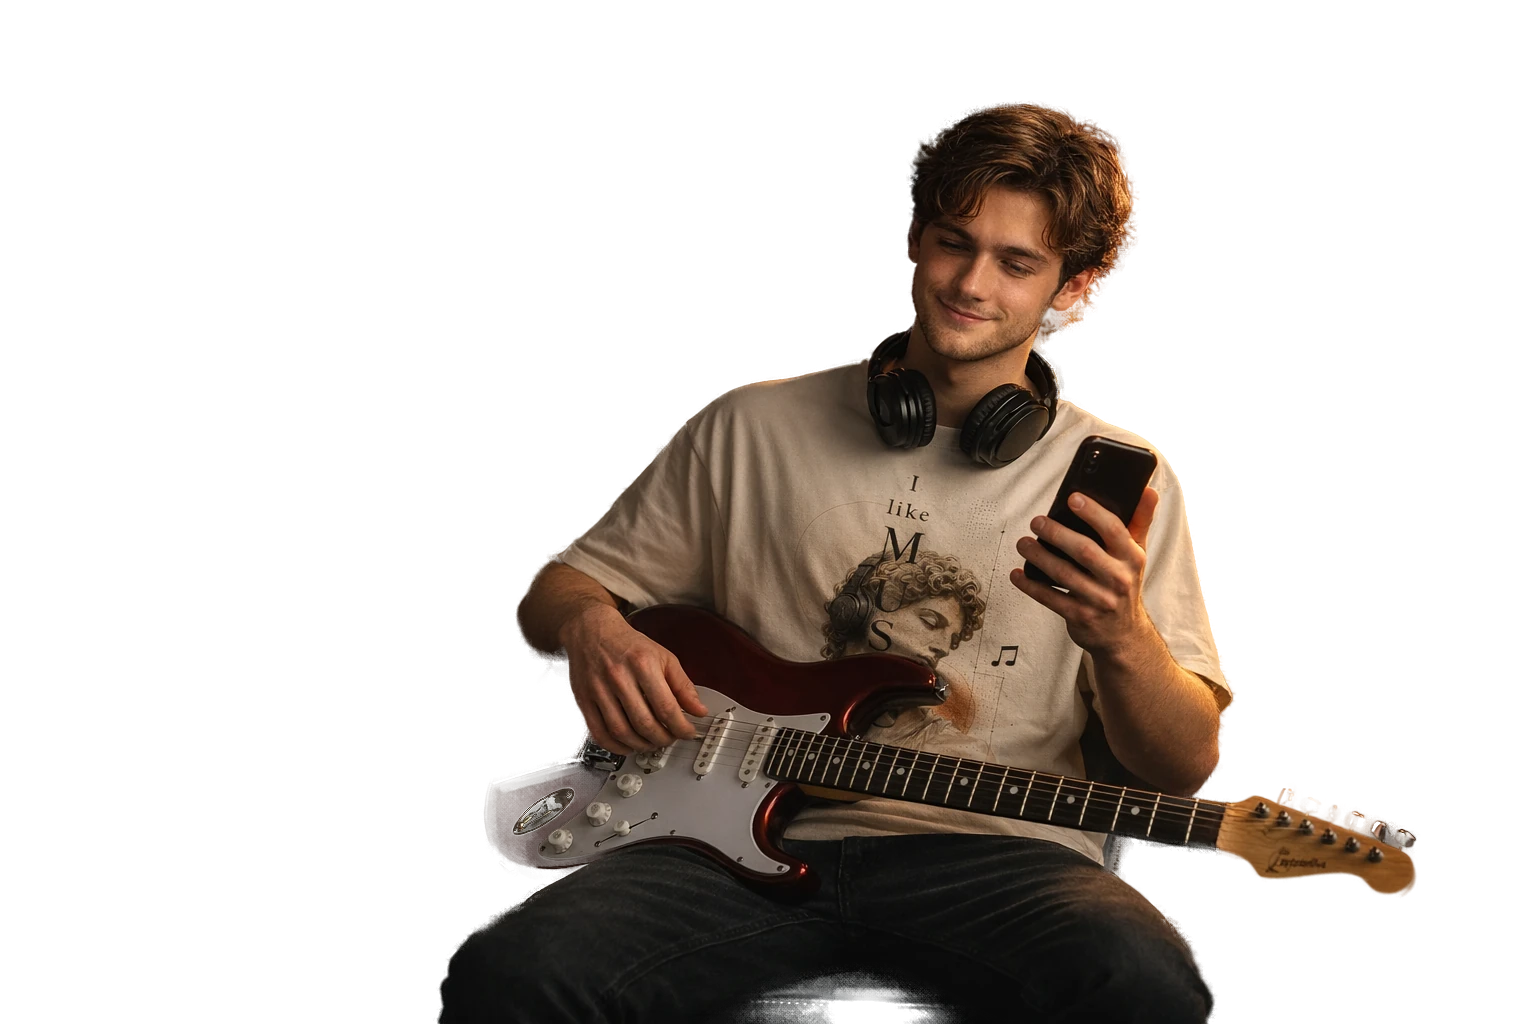
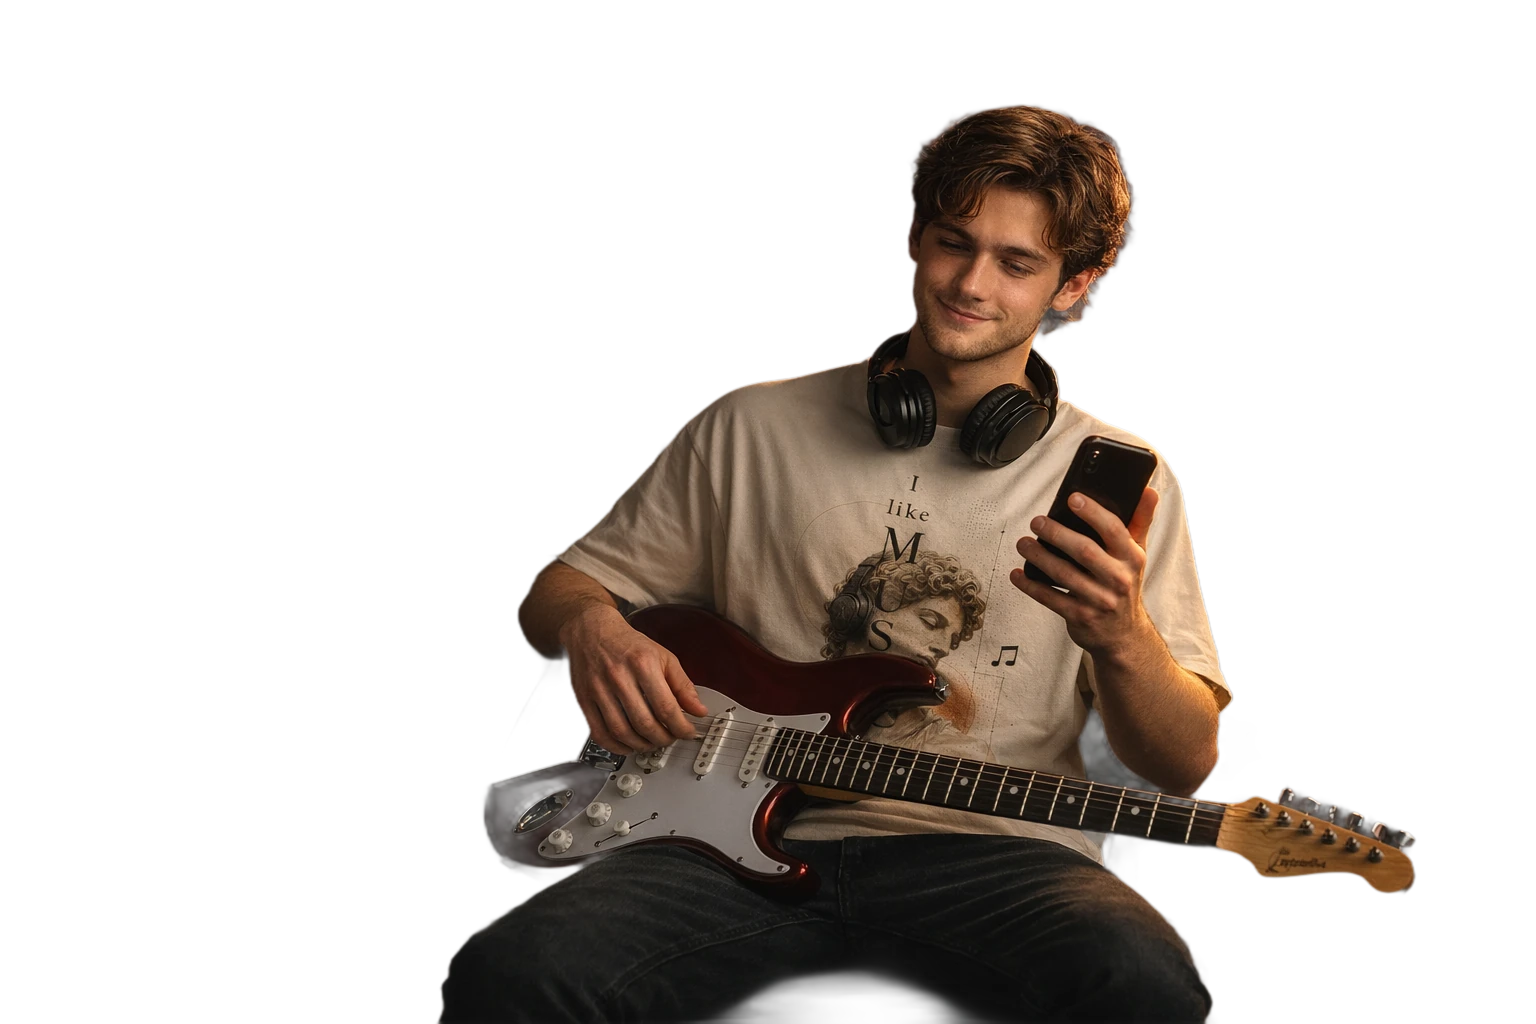
Seamless parallax and instant chat on phone tap
- Background is the hero plate itself, with the real sign composited behind the man
- Cutout moves as one body (flattened depth) with a tighter, un-matted edge
- Sign shadow no longer wraps onto the wall above the logo
- Tapping the phone opens the conversation in place with a gentle 12% lean

diff --git a/src/components/sections/Session/PhotoStudio.tsx b/src/components/sections/Session/PhotoStudio.tsx
@@ -71,7 +71,7 @@ const FRAG = /* glsl */ `
   uniform sampler2D uMap, uDepth, uMaskRed, uMaskLamp;
   uniform float uHasAlpha, uHasMasks;
   uniform vec2 uParallax, uFocus, uChest, uPhone;
-  uniform float uZoom, uParallaxScale, uDepthZoom, uBreath;
+  uniform float uZoom, uParallaxScale, uDepthZoom, uBreath, uDepthFlat, uDepthMix;
   uniform vec3 uLights;      // red, lamp, ambient
   uniform float uAudio, uFlicker, uTime, uGrain, uVignette, uFade, uPhoneGlow;
   varying vec2 vUv;
@@ -81,7 +81,7 @@ const FRAG = /* glsl */ `
     vec2 uv = uFocus + (vUv - uFocus) / uZoom;
     // breathing: a tiny scale around the chest
     uv = uChest + (uv - uChest) / (1.0 + uBreath);
-    float d = texture2D(uDepth, uv).r;                     // 1 = near
+    float d = mix(uDepthFlat, texture2D(uDepth, uv).r, uDepthMix); // 1 = near
     // nearer pixels slide more with the pointer, and spread more as the camera pushes in
     vec2 off = uParallax * uParallaxScale * (d - 0.5)
              + (uv - uFocus) * (uZoom - 1.0) * uDepthZoom * (d - 0.5);
@@ -131,6 +131,8 @@ function makeUniforms(t: PlateTextures, focus: THREE.Vector2, hasAlpha: boolean)
     uZoom: { value: 1 },
     uParallaxScale: { value: 0.01 },
     uDepthZoom: { value: 0.2 },
+    uDepthFlat: { value: 0.5 },
+    uDepthMix: { value: 1 },
     uBreath: { value: 0 },
     uLights: { value: new THREE.Vector3() },
     uAudio: { value: 0 },
@@ -206,7 +208,7 @@ function Plate({ textures, focus, centerX = 0.5, hasAlpha = false, parallaxScale
 // ---------------------------------------------------------------------------
 function Studio() {
   const bg = useTexture(
-    { map: "/scene/clean.jpg", depth: "/scene/clean-depth.jpg", red: "/scene/mask-red.jpg", lamp: "/scene/mask-lamp.jpg" },
+    { map: "/scene/hero.jpg", depth: "/scene/hero-depth.jpg", red: "/scene/mask-red.jpg", lamp: "/scene/mask-lamp.jpg" },
     configure,
   ) as unknown as PlateTextures;
   const fg = useTexture({ map: "/scene/hero-cutout.webp", depth: "/scene/hero-depth.jpg" }, configure) as unknown as PlateTextures;
@@ -235,13 +237,16 @@ function Studio() {
         focus={heroFocus}
         centerX={HERO_CENTER_X}
         hasAlpha
-        parallaxScale={0.05}
+        parallaxScale={0.06}
         depthZoom={0.3}
         z={1}
         update={(u) => {
           u.uZoom.value = frame.heroZoom;
           u.uBreath.value = frame.breath;
           u.uPhoneGlow.value = 1 + session.phonePulse * 2.5;
+          // the man shifts as one body (his depth ≈ 0.78), with only a touch of internal relief
+          u.uDepthFlat.value = 0.78;
+          u.uDepthMix.value = 0.2;
         }}
       />
       <Strings />
@@ -255,7 +260,7 @@ function Studio() {
 const SEGMENTS = 40;
 /** Depth-map value of the guitar, so the strings slide with the layer they sit on */
 const STRING_DEPTH = 0.72;
-const STRING_PARALLAX = 0.05;
+const STRING_PARALLAX = 0.06;
 
 function Strings() {
   const { w, h, shift } = useCover(HERO_CENTER_X);
@@ -457,14 +462,13 @@ function Driver() {
     // Scroll pushes the camera towards the phone and stops there; the studio stays in frame.
     const push = easeInOut(smooth(p, 0, PUSH_END));
     frame.parallax.copy(smoothMouse.current).multiplyScalar(1 - push * 0.6);
-    frame.heroZoom = 1 + 0.7 * push;
+    frame.heroZoom = 1 + 0.7 * push + 0.12 * session.focus * (1 - push);
     frame.time = clock.elapsedTime;
     session.phonePulse *= Math.exp(-dt * 4);
     // the zoom pivots on the phone, so its screen position only drifts with the parallax
     const { w, h, shift } = coverFit(size.width, size.height);
-    const d = 0.75 - 0.5;
-    session.phoneScreen.x = size.width / 2 + shift + (HERO_PHONE[0] / IMG.w - 0.5) * w - frame.parallax.x * 0.05 * d * w;
-    session.phoneScreen.y = size.height / 2 + (HERO_PHONE[1] / IMG.h - 0.5) * h + frame.parallax.y * 0.05 * d * h;
+    session.phoneScreen.x = size.width / 2 + shift + (HERO_PHONE[0] / IMG.w - 0.5) * w - frame.parallax.x * 0.06 * (0.78 - 0.5) * w;
+    session.phoneScreen.y = size.height / 2 + (HERO_PHONE[1] / IMG.h - 0.5) * h + frame.parallax.y * 0.06 * (0.78 - 0.5) * h;
     frame.breath = Math.sin(clock.elapsedTime * 1.1) * 0.004;
     const a = session.audio.level;
     frame.flicker = session.lights.lamp > 0.9 ? 1 + Math.sin(t * 37) * Math.sin(t * 11) * (0.015 + a * 0.25) : 1;

diff --git a/src/components/sections/Session/Session.tsx b/src/components/sections/Session/Session.tsx
@@ -2,7 +2,6 @@
 
 import dynamic from "next/dynamic";
 import { useEffect, useRef, useState } from "react";
-import { useLenis } from "lenis/react";
 import { gsap, ScrollTrigger, useGSAP } from "@/lib/gsap";
 import { usePreloaderStore } from "@/store/preloader";
 import ChatOverlay from "./ChatOverlay";
@@ -20,7 +19,6 @@ export default function Session() {
   const scrollHint = useRef<HTMLDivElement>(null);
   const tapHint = useRef<HTMLDivElement>(null);
   const phoneHint = useRef<HTMLButtonElement>(null);
-  const lenis = useLenis();
   const done = usePreloaderStore((s) => s.done);
   const [muted, setMutedState] = useState(false);
 
@@ -90,15 +88,11 @@ export default function Session() {
     };
   }, [done]);
 
-  // Tapping the phone pushes the camera in and starts the conversation on arrival.
+  // Tapping the phone opens the conversation right here, with a gentle lean towards the phone.
   const tapPhone = () => {
     unlockAudio();
     requestAutoPlay();
-    const st = ScrollTrigger.getAll().find((t) => t.trigger === root.current);
-    if (!st) return;
-    const target = st.start + (st.end - st.start) * 0.62;
-    if (lenis) lenis.scrollTo(target, { duration: 1.6, easing: (t: number) => 1 - Math.pow(1 - t, 3) });
-    else window.scrollTo({ top: target, behavior: "smooth" });
+    gsap.to(session, { focus: 1, duration: 1.4, ease: "power3.out" });
   };
 
   const toggleSound = () => {

diff --git a/src/components/sections/Session/state.ts b/src/components/sections/Session/state.ts
@@ -19,8 +19,10 @@ export const session = {
   phonePulse: 0,
   /** 1 = show the TAP hint on the phone (at rest, before the push) */
   phoneHint: 1,
-  /** Set when the phone itself was tapped: scroll to the push and start the chat on arrival */
+  /** Set when the phone itself was tapped: open the conversation right away */
   autoPlay: false,
+  /** 0–1, a gentle zoom towards the phone while the conversation is open (tweened by GSAP) */
+  focus: 0,
   /** Render-loop counter (debug: confirms the canvas is actually drawing) */
   frames: 0,
 };
@@ -39,7 +41,7 @@ export function dismissPhoneHint() {
   session.phoneHint = 0;
 }
 
-/** The phone was tapped at rest: push in, then start the conversation on arrival. */
+/** The phone was tapped: hide its hint and open the conversation. */
 export function requestAutoPlay() {
   session.phoneHint = 0;
   session.autoPlay = true;
@@ -52,7 +54,7 @@ export const PLATE = { w: 1536, h: 1024 };
 /** Image x (0–1) kept in view when a narrow screen crops the plate */
 export const HERO_CENTER_X = 0.6;
 /** Wall sign on the hero/clean plate, in plate pixels: the "auvox" wordmark box */
-export const SIGN_WORDMARK = { x: 505, y: 115, w: 448, h: 104 };
+export const SIGN_WORDMARK = { x: 505, y: 113, w: 448, h: 105 };
 /** Phone screen centre on the hero plate, in plate pixels */
 export const HERO_PHONE = { x: 1080, y: 515 };
 

diff --git a/src/components/sections/Session/ChatOverlay.tsx b/src/components/sections/Session/ChatOverlay.tsx
@@ -43,7 +43,7 @@ export default function ChatOverlay() {
     const tick = () => {
       const p = session.progress;
       const arrived = smooth(p, 0.42, 0.6);
-      if (session.autoPlay && arrived >= 1 && stageRef.current === "idle") {
+      if (session.autoPlay && stageRef.current === "idle") {
         session.autoPlay = false;
         startRef.current();
       }

diff --git a/scripts/sign.py b/scripts/sign.py
@@ -28,7 +28,7 @@ FINAL = ROOT.parent / "AUVOX Generation Pack" / "output" / "final"
 SVG = ROOT / "public" / "svg" / "auvox-primary-logo.svg"
 
 # Where the generated sign sits on the plate (its "auvox" box), and where ours goes.
-OLD_REGION = (470, 95, 990, 275)  # x0, y0, x1, y1 — search area for the old cream letters
+OLD_REGION = (440, 50, 1010, 285)  # x0, y0, x1, y1 — search area for the old cream letters
 TARGET_X, TARGET_W = 505, 448     # keep the old wordmark's left edge and width
 TARGET_CY = 165                   # vertical centre of the old wordmark
 CREAM = np.array([241, 237, 233], dtype=np.float32)
@@ -96,15 +96,25 @@ def render_logo(width_px: int) -> Image.Image:
     return Image.fromarray(rgba[..., 3], "L")  # alpha = logo coverage
 
 
-def main() -> None:
-    src = FINAL / "02-B-clean-plate.png"
-    backup = FINAL / "02-B-clean-plate-original.png"
+def shift(img: np.ndarray, dy: int, dx: int) -> np.ndarray:
+    """Shift without wrap-around (np.roll would drag the bottom shadow onto the top)."""
+    out = np.zeros_like(img)
+    h, w = img.shape[:2]
+    out[max(dy, 0) : h + min(dy, 0), max(dx, 0) : w + min(dx, 0)] = img[max(-dy, 0) : h - max(dy, 0), max(-dx, 0) : w - max(dx, 0)]
+    return out
+
+
+def resign(src: Path, protect: np.ndarray | None = None) -> tuple[int, int, int, int]:
+    """Replace the generated sign on `src` in place. `protect` (H×W, 0–1) keeps foreground pixels untouched."""
+    backup = src.with_name(src.stem + "-original.png")
     if not backup.exists():
         backup.write_bytes(src.read_bytes())
     plate = np.asarray(Image.open(backup).convert("RGB")).astype(np.float32)
     H, W, _ = plate.shape
+    keep = np.zeros((H, W), np.float32) if protect is None else np.clip(protect, 0, 1)
+    keep = cv2.dilate(keep, np.ones((5, 5), np.uint8))
 
-    # 1. old sign mask → inpaint
+    # 1. old sign mask (cream letters, not on the foreground) → inpaint
     lum = plate.mean(axis=2)
     sat = plate.max(axis=2) - plate.min(axis=2)
     old = np.zeros((H, W), np.uint8)
@@ -113,36 +123,42 @@ def main() -> None:
     old[y0:y1, x0:x1] = region.astype(np.uint8) * 255
     old = cv2.dilate(old, np.ones((9, 9), np.uint8), iterations=2)
     old = cv2.GaussianBlur(old, (0, 0), 1.5)
-    old = (old > 60).astype(np.uint8) * 255
+    old = ((old > 60) & (keep < 0.5)).astype(np.uint8) * 255
     wall = cv2.inpaint(plate.astype(np.uint8), old, 9, cv2.INPAINT_TELEA).astype(np.float32)
 
     # 2. our logo
     alpha_img = render_logo(TARGET_W)
     lw, lh = alpha_img.size
-    # the wordmark is the top 303/470 of the lockup → centre that part on the old wordmark centre
     wordmark_h = lh * 303 / 446  # the lockup SVG is 1309×446: wordmark 303 tall, MUSIC below
     ty = int(round(TARGET_CY - wordmark_h / 2))
     tx = TARGET_X
 
-    # 3. shade by the wall's own light (brighter where the wall is brighter) + soft shadow
+    # 3. shade by the wall's own light + soft shadow, only where the foreground doesn't cover
     alpha = np.asarray(alpha_img).astype(np.float32) / 255.0
+    alpha *= 1 - keep[ty : ty + lh, tx : tx + lw]
     patch = wall[ty : ty + lh, tx : tx + lw]
     local = cv2.GaussianBlur(patch.mean(axis=2), (0, 0), 25)
     shade = np.clip(0.55 + 0.9 * (local / max(local.mean(), 1)), 0.6, 1.25)[..., None]
     colour = CREAM[None, None, :] * shade * 0.96
-    shadow = cv2.GaussianBlur(alpha, (0, 0), 4)
-    shadow = np.roll(np.roll(shadow, 4, axis=0), 2, axis=1) * 0.55
+    shadow = shift(cv2.GaussianBlur(alpha, (0, 0), 4), 4, 2) * 0.55
     out = wall.copy()
     sub = out[ty : ty + lh, tx : tx + lw]
-    sub = sub * (1 - shadow[..., None]) + np.zeros_like(sub) * shadow[..., None]
+    sub = sub * (1 - shadow[..., None])
     sub = sub * (1 - alpha[..., None]) + colour * alpha[..., None]
     out[ty : ty + lh, tx : tx + lw] = sub
 
     Image.fromarray(np.clip(out, 0, 255).astype(np.uint8)).save(src)
-    print("✓ 02-B-clean-plate.png (sign replaced)")
-    print(f"SIGN_WORDMARK = {{ x: {tx}, y: {ty}, w: {lw}, h: {int(round(wordmark_h))} }}  lockup {lw}x{lh}")
-    # preview crop
-    Image.fromarray(np.clip(out, 0, 255).astype(np.uint8)).crop((380, 60, 1080, 320)).save(FINAL / "layers" / "sign-preview.png")
+    print("✓", src.name, "(sign replaced)")
+    return tx, ty, lw, int(round(wordmark_h))
+
+
+def main() -> None:
+    tx, ty, lw, wh = resign(FINAL / "02-B-clean-plate.png")
+    mask_path = FINAL / "layers" / "hero-cutout-mask.png"
+    protect = np.asarray(Image.open(mask_path).convert("L")).astype(np.float32) / 255.0 if mask_path.exists() else None
+    resign(FINAL / "03-A-hero.png", protect)
+    print(f"SIGN_WORDMARK = {{ x: {tx}, y: {ty}, w: {lw}, h: {wh} }}")
+    Image.open(FINAL / "03-A-hero.png").crop((380, 60, 1080, 320)).save(FINAL / "layers" / "sign-preview.png")
 
 
 if __name__ == "__main__":

diff --git a/scripts/plates.py b/scripts/plates.py
@@ -39,10 +39,17 @@ def cutout(image: Image.Image) -> None:
     from rembg import new_session, remove
 
     session = new_session("isnet-general-use")
-    rgba = remove(image, session=session, alpha_matting=True, alpha_matting_foreground_threshold=240,
-                  alpha_matting_background_threshold=10, alpha_matting_erode_size=8)
+    rgba = remove(image, session=session, alpha_matting=False)
+    # tighten the edge: a 1px erode kills the background fringe, a soft feather hides the stair-steps
+    a = np.asarray(rgba.getchannel("A")).astype(np.float32) / 255.0
+    import cv2
+
+    a = cv2.erode(a, np.ones((3, 3), np.uint8))
+    a = cv2.GaussianBlur(a, (0, 0), 0.7)
+    alpha = Image.fromarray((np.clip(a, 0, 1) * 255).astype(np.uint8))
+    rgba.putalpha(alpha)
     rgba.save(OUT / "hero-cutout.png")
-    rgba.getchannel("A").save(OUT / "hero-cutout-mask.png")
+    alpha.save(OUT / "hero-cutout-mask.png")
     print("✓ hero-cutout.png")
 
 
